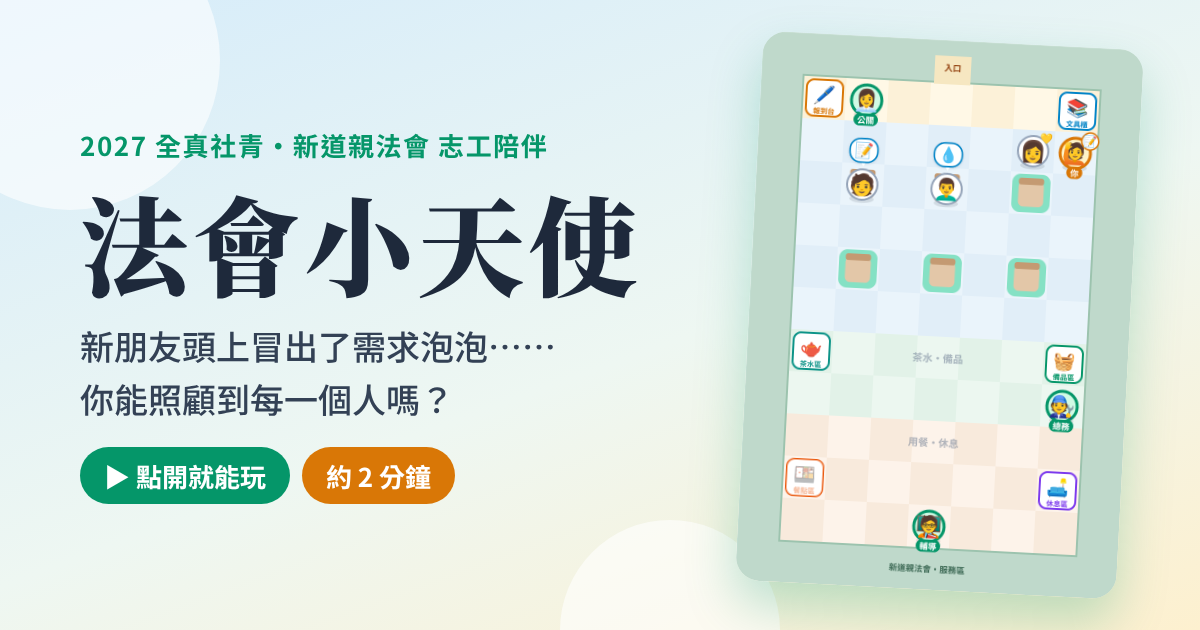
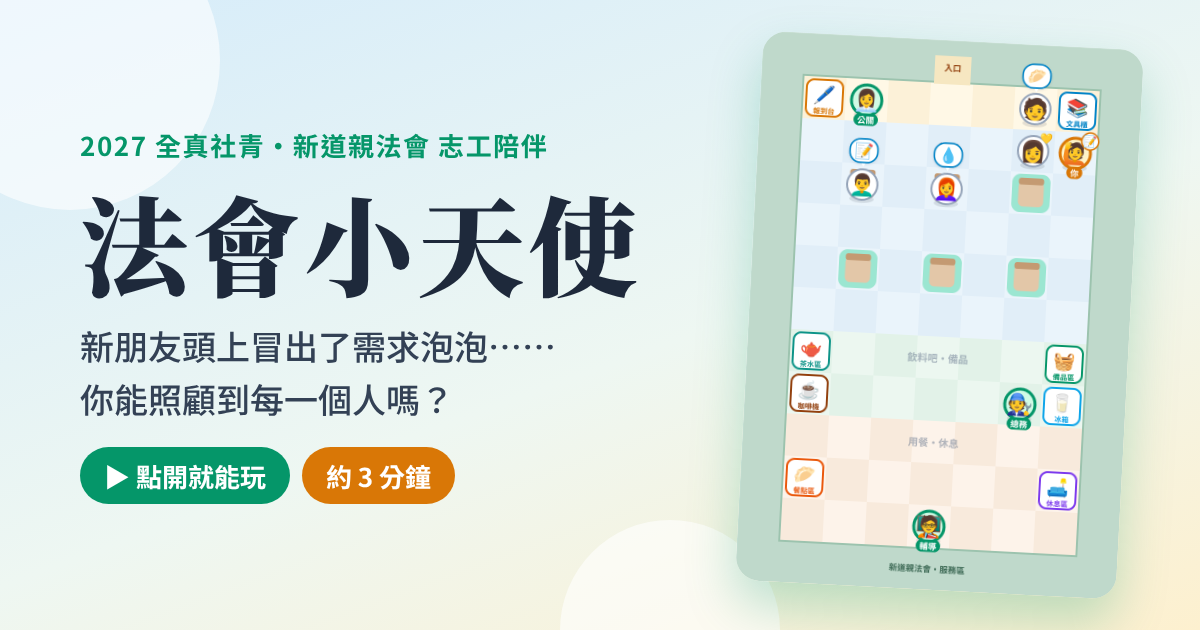
法會小天使：飲料吧（美式、鮮奶、拿鐵）、咖啡糖、早餐問候與水煎包
- 新增咖啡機與冰箱：紙杯＋咖啡機＝美式，美式＋鮮奶＝拿鐵（順序可對調）
- 想睡的朋友可給咖啡糖或美式，兩種解法都算數
- 剛到的朋友要先打招呼，問出還沒吃早餐，再拿兩顆水煎包
- 第三波改由早上認識的朋友提出新需求
- 溫暖值改為精簡計數，避免標題列擠壓

Claude-Session: https://claude.ai/code/session_01VJcZ3wUCqLHMZ5wd7frCC5

diff --git a/game/fahui-angel.html b/game/fahui-angel.html
@@ -7,7 +7,7 @@
 <meta property="og:type" content="website">
 <meta property="og:site_name" content="2027 全真社青 Life Design 探索地圖">
 <meta property="og:title" content="法會小天使｜一起當新朋友身邊的那雙手">
-<meta property="og:description" content="新朋友頭上冒出了需求泡泡……你能照顧到每一個人嗎？手機、電腦點開就能玩，約 2 分鐘。">
+<meta property="og:description" content="新朋友頭上冒出了需求泡泡……你能照顧到每一個人嗎？手機、電腦點開就能玩，約 3 分鐘。">
 <meta property="og:url" content="https://steven4dev.github.io/yiguandao-2027-course/game/fahui-angel.html">
 <meta property="og:image" content="https://steven4dev.github.io/yiguandao-2027-course/game/og-fahui-angel.png">
 <meta property="og:image:width" content="1200">
@@ -72,9 +72,10 @@
   .stats { text-align: right; display: grid; gap: 4px; flex: none; white-space: nowrap; }
   #wave { font-size: .8rem; font-weight: 700; color: var(--blue); }
   .warm { display: flex; align-items: center; gap: 6px; justify-content: flex-end; font-size: .72rem; color: var(--muted); font-weight: 700; }
-  #hearts { display: flex; gap: 1px; font-size: .82rem; line-height: 1; }
-  #hearts span { color: #E2E8F0; transition: color .3s, transform .3s; }
-  #hearts span.on { color: var(--pink); transform: scale(1.15); }
+  #hearts { display: inline-flex; align-items: center; gap: 4px; font-size: .95rem; font-weight: 900; color: var(--pink); font-variant-numeric: tabular-nums; line-height: 1; }
+  #hearts small { font-size: .72rem; color: var(--muted); font-weight: 700; }
+  #hearts.bump { animation: bump .45s ease-out; }
+  @keyframes bump { 40% { transform: scale(1.3); } }
 
   #stage { position: relative; flex: 1; min-height: 0; display: grid; place-items: center; }
   canvas { display: block; border-radius: 14px; box-shadow: 0 10px 30px rgba(5,150,105,.12), 0 0 0 1px var(--line); touch-action: none; cursor: pointer; max-width: 100%; }
@@ -225,7 +226,8 @@
     <p>🧺 備品區：要拿哪一樣？</p>
     <div class="row">
       <button class="btn" type="button" data-item="coat">🧥 薄外套</button>
-      <button class="btn" type="button" data-item="cup">☕ 空杯子</button>
+      <button class="btn" type="button" data-item="cup">🥤 空紙杯</button>
+      <button class="btn" type="button" data-item="candy">🍬 咖啡糖</button>
       <button class="btn ghost" type="button" data-item="">先不用</button>
     </div>
   </div>
@@ -239,6 +241,8 @@
         <li><span>👆</span><span>點地板走路；點人或櫃子，會自己走過去互動。電腦也可以用方向鍵。</span></li>
         <li><span>💬</span><span>泡泡就是需求：拿對的物資送過去，或待在身邊陪他一下。</span></li>
         <li><span>✋</span><span>手上一次只能拿一樣；直接去拿別的，舊的會自動放回去。</span></li>
+        <li><span>👋</span><span>剛到的朋友先打聲招呼，關心一下吃過早餐沒。</span></li>
+        <li><span>☕</span><span>飲料吧：紙杯＋咖啡機＝美式，美式＋鮮奶＝拿鐵。</span></li>
         <li><span>🧑💼</span><span>卡關了？穿綠背心的公關、總務、輔導組學長姊都會幫你。</span></li>
         <li><span>🎵</span><span>有背景音樂，右下角 🔊 可以開關（電腦按 M）。</span></li>
       </ul>
@@ -286,7 +290,7 @@
   const EMOJI = '"Apple Color Emoji","Segoe UI Emoji","Noto Color Emoji",sans-serif';
   const SANS = '"Noto Sans TC","PingFang TC","Microsoft JhengHei",sans-serif';
 
-  // R 報到台  S 文具櫃  T 茶水區  B 備品區  F 餐點區  L 休息區  c 座位  E 入口
+  // R 報到台  S 文具櫃  T 茶水區  K 咖啡機  M 冰箱  B 備品區  F 餐點區  L 休息區  c 座位  E 入口
   const MAP = [
     '#########',
     '#R..E..S#',
@@ -296,7 +300,7 @@
     '#.c.c.c.#',
     '#.......#',
     '#T.....B#',
-    '#.......#',
+    '#K.....M#',
     '#.......#',
     '#F.....L#',
     '#.......#',
@@ -309,20 +313,28 @@
     R: { name: '報到台', icon: '🖊', color: '#D97706' },
     S: { name: '文具櫃', icon: '📚', color: '#0284C7' },
     T: { name: '茶水區', icon: '🫖', color: '#0D9488' },
+    K: { name: '咖啡機', icon: '☕', color: '#92400E' },
+    M: { name: '冰箱', icon: '🥛', color: '#0EA5E9' },
     B: { name: '備品區', icon: '🧺', color: '#059669' },
     F: { name: '餐點區', icon: '🍱', color: '#EA580C' },
     L: { name: '休息區', icon: '🛋', color: '#7C3AED' },
   };
   const ITEMS = {
     note: { e: '📝', n: '筆記本' }, water: { e: '💧', n: '溫開水' }, coat: { e: '🧥', n: '薄外套' },
-    cup: { e: '☕', n: '空杯子' }, tea: { e: '🍵', n: '熱茶' }, bento: { e: '🍱', n: '素便當' }, key: { e: '🔑', n: '鑰匙' },
+    cup: { e: '🥤', n: '空紙杯' }, tea: { e: '🍵', n: '熱茶' }, bento: { e: '🍱', n: '素便當' }, key: { e: '🔑', n: '鑰匙' },
+    americano: { e: '☕', n: '美式咖啡' }, milk: { e: '🥛', n: '鮮奶' }, latte: { e: '☕🥛', n: '拿鐵' },
+    candy: { e: '🍬', n: '咖啡糖' }, bao: { e: '🥟', n: '水煎包' },
   };
   const NEEDS = {
     guide:   { e: '🧭', ask: '請問…我的座位在哪裡？', hint: '先走到他身邊讓他跟著你，再點一張發亮的空椅子。' },
     note:    { e: '📝', item: 'note', ask: '我想抄重點，有筆記本嗎？', hint: '筆記本在右上角的文具櫃。' },
     water:   { e: '💧', item: 'water', ask: '有點口渴，可以給我一杯水嗎？', hint: '左邊的茶水區有溫開水。' },
     coat:    { e: '🧥', item: 'coat', ask: '冷氣好強，有點冷…', hint: '薄外套在右邊備品區；櫃子鎖著的話，找總務組拿鑰匙。' },
-    tea:     { e: '🍵', item: 'tea', ask: '想喝杯熱茶暖暖身子。', hint: '先到備品區拿空杯子，再到茶水區裝熱茶。' },
+    tea:     { e: '🍵', item: 'tea', ask: '想喝杯熱茶暖暖身子。', hint: '先到備品區拿空紙杯，再到茶水區裝熱茶。' },
+    latte:   { e: '☕🥛', item: 'latte', ask: '好想喝一杯熱拿鐵～', hint: '拿鐵＝美式＋鮮奶：備品區拿紙杯，咖啡機裝美式，再到冰箱加鮮奶（順序反過來也可以）。' },
+    sleepy:  { e: '😪', items: ['candy', 'americano'], ask: '昨晚加班到好晚…好想睡…', hint: '幫他提神：備品區有咖啡糖，或是泡一杯美式咖啡給他。' },
+    greet:   { e: '👋', ask: '（剛到會場，有點不知所措…）', hint: '剛到的朋友，先走過去打聲招呼、關心一下。' },
+    bao:     { e: '🥟', item: 'bao', qty: 2, ask: '還沒吃早餐，肚子有點餓…', hint: '左下角餐點區有水煎包，拿兩顆給他（點兩次）。' },
     comfort: { e: '😟', ask: '第一次來，有點緊張…', hint: '走到休息區那位朋友身邊，靜靜陪他一下就好。' },
     bento:   { e: '🍱', item: 'bento', ask: '午餐在哪裡拿呢？', hint: '便當在左下角的餐點區。' },
   };
@@ -330,23 +342,25 @@
     guide: '有你帶路，我就不慌了。', note: '我會把今天的感動都記下來！', water: '這杯水好暖，謝謝你注意到我。',
     coat: '不冷了，連心都暖了。', tea: '這杯熱茶，我會記很久。', comfort: '有你陪著，我不緊張了。',
     bento: '吃飽了，覺得被好好照顧。', hidden: '謝謝你走過來，我以為沒人會發現我。',
+    latte: '這杯拿鐵剛剛好，你好會調！', bao: '熱騰騰的水煎包，好幸福！',
+    candy: '咖啡糖好有效，醒了醒了！', americano: '一杯美式，精神都回來了！',
   };
   const GAME_URL = 'https://steven4dev.github.io/yiguandao-2027-course/game/fahui-angel.html';
   const SHORT_URL = 'steven4dev.github.io/yiguandao-2027-course';
   const FACES = ['👩', '🧑', '👨🦱', '👩🦰', '🧔', '👱♀', '👨', '🧑🦱'];
   const WAVES = [
-    { name: '報到時間', intro: '新朋友陸續報到了！看看誰頭上冒出泡泡。',
-      npcs: [{ need: 'guide', at: [4, 1] }, { need: 'note', seat: true }, { need: 'water', seat: true }] },
-    { name: '課間休息', intro: '下課了，冷氣有點強。備品區上鎖了，記得找總務組。', lock: true,
-      npcs: [{ need: 'coat', seat: true }, { need: 'tea', seat: true }, { need: 'comfort', at: [6, 10] }] },
-    { name: '用餐時間', intro: '開飯囉！也看看角落，有人可能不好意思開口。',
-      npcs: [{ need: 'bento', seat: true }, { need: 'bento', at: [7, 11], hidden: true,
-               ask: '（小聲）我…還沒拿到便當，不好意思開口…' }] },
+    { name: '報到時間', intro: '新朋友陸續報到了！剛到的朋友記得先打聲招呼。',
+      npcs: [{ need: 'guide', at: [4, 1] }, { need: 'greet', at: [6, 1] }, { need: 'note', seat: true }, { need: 'water', seat: true }] },
+    { name: '課間休息', intro: '下課了！飲料吧可以泡咖啡、調拿鐵；備品區上鎖了，記得找總務組。', lock: true,
+      npcs: [{ need: 'coat', seat: true }, { need: 'latte', seat: true }, { need: 'sleepy', seat: true }, { need: 'comfort', at: [6, 10] }] },
+    { name: '用餐時間', intro: '開飯囉！早上認識的朋友又有新需要了，也看看角落。',
+      npcs: [{ need: 'bento', renew: true, ask: '肚子餓了，午餐在哪裡拿呢？' }, { need: 'tea', renew: true, ask: '飯後想喝杯熱茶。' },
+             { need: 'bento', at: [7, 11], hidden: true, ask: '（小聲）我…還沒拿到便當，不好意思開口…' }] },
   ];
   const TOTAL = WAVES.reduce((s, w) => s + w.npcs.length, 0);
   const STAFF = [
     { id: 'pr',   label: '公關', name: '公關禮節組', face: '👩💼', x: 2, y: 1 },
-    { id: 'gen',  label: '總務', name: '總務組',     face: '🧑🔧', x: 7, y: 8 },
+    { id: 'gen',  label: '總務', name: '總務組',     face: '🧑🔧', x: 6, y: 8 },
     { id: 'care', label: '輔導', name: '輔導組',     face: '🧑🏫', x: 4, y: 11 },
   ];
 
@@ -473,7 +487,7 @@
     S = { wave: -1, npcs: [], hand: null, locked: false, hearts: 0, player: ent(4, 7), follower: null,
           path: [], pending: null, particles: [], ripple: null, time: 0, waveT: 0, running: false,
           nextWaveAt: null, hi: null, faceIdx: 0, hiddenHinted: false, finished: false,
-          steps: 0, hints: 0, wrong: 0, items: 0, hiddenEarly: false, careHint: false, thanks: [] };
+          qty: 0, steps: 0, hints: 0, wrong: 0, items: 0, hiddenEarly: false, careHint: false, thanks: [] };
     renderHearts(); renderHand();
   }
 
@@ -534,12 +548,14 @@
   }
   const setHint = t => ($('#hint').textContent = t);
   function renderHearts() {
-    $('#hearts').innerHTML = Array.from({ length: TOTAL }, (_, i) => `<span class="${i < (S ? S.hearts : 0) ? 'on' : ''}">♥</span>`).join('');
+    const h = $('#hearts'), n = S ? S.hearts : 0;
+    h.innerHTML = `❤ <span class="on">${n}</span><small>／${TOTAL}</small>`;
+    if (n && !RM) { h.classList.remove('bump'); void h.offsetWidth; h.classList.add('bump'); }
   }
   function renderHand() {
     const it = S && S.hand ? ITEMS[S.hand] : null;
     $('#handEm').textContent = it ? it.e : '✋';
-    $('#handName').textContent = it ? it.n : '空空的';
+    $('#handName').textContent = it ? it.n + (S.hand === 'bao' ? ` ×${S.qty}` : '') : '空空的';
   }
   function banner(sub, title) {
     const b = $('#banner');
@@ -562,9 +578,15 @@
     S.wave = i; S.waveT = 0; S.nextWaveAt = null; S.hiddenHinted = false;
     const w = WAVES[i];
     if (w.lock) S.locked = true;
+    const renewable = S.npcs.filter(n => n.state === 'done' && !n.hidden && tileAt(n.x, n.y) === 'c');
     for (const d of w.npcs) {
+      if (d.renew && renewable.length) {
+        const n = renewable.splice(Math.floor(Math.random() * renewable.length), 1)[0];
+        Object.assign(n, { need: d.need, state: 'wait', wave: i, ask: d.ask || NEEDS[d.need].ask, born: S.time, prog: 0, renewed: true });
+        continue;
+      }
       let pos;
-      if (d.seat) { const fs = freeSeats(); pos = fs[Math.floor(Math.random() * fs.length)]; }
+      if (d.seat || d.renew) { const fs = freeSeats(); pos = fs[Math.floor(Math.random() * fs.length)]; }
       else pos = freeNear(...d.at);
       const n = Object.assign(ent(pos[0], pos[1]), {
         need: d.need, face: FACES[S.faceIdx++ % FACES.length], state: 'wait', wave: i,
@@ -578,13 +600,13 @@
     setHint(w.intro);
   }
   const waveNpcs = () => S.npcs.filter(n => n.wave === S.wave);
-  function complete(n) {
+  function complete(n, used) {
     n.state = 'done'; n.doneAt = S.time;
     S.hearts++; renderHearts(); sfx('yay');
     for (let k = 0; k < 5; k++) S.particles.push({ x: n.x + .5 + (Math.random() - .5) * .6, y: n.y + .2, vy: -(.8 + Math.random() * .8), life: 1 });
-    const line = n.hidden ? THANKS.hidden : THANKS[n.need];
+    const line = n.hidden ? THANKS.hidden : (n.need === 'sleepy' ? THANKS[used] : THANKS[n.need]);
     S.thanks.push({ face: n.face, line, hidden: n.hidden });
-    if (NEEDS[n.need].item) S.items++;
+    if (used) S.items++;
     say(n, line);
     if (waveNpcs().every(m => m.state === 'done')) S.nextWaveAt = S.time + 1.3;
     else {
@@ -597,9 +619,9 @@
   // 稱號看的是「怎麼玩」，不是快慢：每一種玩法都值得被肯定
   function angelTitle(sec) {
     if (S.hiddenEarly) return { e: '🔍', name: '細心小天使', desc: '你看見了那個沒說出口的需要。' };
-    if (sec <= 60) return { e: '🍃', name: '疾風小天使', desc: '需要出現的那一刻，你已經在路上。' };
+    if (sec <= 100) return { e: '🍃', name: '疾風小天使', desc: '需要出現的那一刻，你已經在路上。' };
     if (S.hints >= 3) return { e: '🤝', name: '同行小天使', desc: '懂得請教夥伴，一群人走得更遠。' };
-    if (sec >= 150) return { e: '🌿', name: '從容小天使', desc: '不疾不徐，把每份心意都送得穩穩的。' };
+    if (sec >= 240) return { e: '🌿', name: '從容小天使', desc: '不疾不徐，把每份心意都送得穩穩的。' };
     return { e: '☀', name: '溫暖小天使', desc: '你的每一步，都讓會場更暖一點。' };
   }
   function timeText(sec) {
@@ -614,8 +636,8 @@
     const sec = Math.max(1, Math.round(S.time));
     const title = angelTitle(sec);
     const pick = [...S.thanks].sort((a, b) => (b.hidden - a.hidden) || (Math.random() - .5)).slice(0, 2);
-    const r = { sec, title, pick, hearts: S.hearts, steps: S.steps, items: S.items };
-    shareText = `我在「法會小天使」成為了${title.e}${title.name}！用 ${timeText(sec)}，讓 ${S.hearts} 位新朋友的第一次不再陌生。你也來當一天新朋友身邊的那雙手吧 👉 ${GAME_URL}`;
+    const r = { sec, title, pick, hearts: S.hearts, people: S.npcs.length, steps: S.steps, items: S.items };
+    shareText = `我在「法會小天使」成為了${title.e}${title.name}！用 ${timeText(sec)}，讓 ${S.npcs.length} 位新朋友的第一次不再陌生。你也來當一天新朋友身邊的那雙手吧 👉 ${GAME_URL}`;
     $('#endHead').textContent = `你是今天的${title.name}`;
     $('#fbShare').href = 'https://www.facebook.com/sharer/sharer.php?u=' + encodeURIComponent(GAME_URL);
     $('#lineShare').href = 'https://social-plugins.line.me/lineit/share?url=' + encodeURIComponent(GAME_URL) + '&text=' + encodeURIComponent(shareText);
@@ -629,7 +651,7 @@
     renderCard(r).then(cv2 => {
       resultUrl = cv2.toDataURL('image/png');
       $('#resultImg').src = resultUrl;
-      $('#resultImg').alt = `法會小天使卡：${title.name}，${timeText(sec)}照顧了 ${S.hearts} 位新朋友`;
+      $('#resultImg').alt = `法會小天使卡：${title.name}，${timeText(sec)}照顧了 ${S.npcs.length} 位新朋友`;
       cv2.toBlob(b => { if (b) shareFile = new File([b], 'fahui-angel.png', { type: 'image/png' }); }, 'image/png');
     });
     $('#shareImg').focus({ preventScroll: true });
@@ -702,9 +724,9 @@
     g.save(); g.shadowColor = 'rgba(5,150,105,.16)'; g.shadowBlur = 30; g.shadowOffsetY = 10;
     g.fillStyle = '#fff'; round(90, 640, 900, 300, 36); g.fill(); g.restore();
     font(900, 40, SERIF); center(`你花了 ${timeText(r.sec)}`, 700, '#059669');
-    font(500, 32); center(`讓 ${r.hearts} 位新朋友的第一次不再陌生`, 752, '#1E293B');
+    font(500, 32); center(`讓 ${r.people} 位新朋友的第一次不再陌生`, 752, '#1E293B');
     g.strokeStyle = '#E2EEE7'; g.lineWidth = 2; g.beginPath(); g.moveTo(150, 795); g.lineTo(930, 795); g.stroke();
-    const cols = [['❤', r.hearts, '位被照顧'], ['👣', r.steps, '步的陪伴'], ['🎁', r.items, '份物資']];
+    const cols = [['❤', r.hearts, '份心意'], ['👣', r.steps, '步的陪伴'], ['🎁', r.items, '份物資']];
     cols.forEach(([ch, n, lab], i) => {
       const x = 240 + i * 300;
       g.font = `900 54px ${SANS}`;
@@ -775,12 +797,19 @@
 
   // ---------- interactions ----------
   function give(item) {
+    if (item === 'bao' && S.hand === 'bao') {
+      if (S.qty >= 2) return say(null, '兩顆水煎包剛剛好，快送過去吧！');
+      S.qty = 2; renderHand(); sfx('pick');
+      return say(null, '再拿一顆！🥟 水煎包 ×2');
+    }
     if (S.hand === item) return say(null, `手上已經有${ITEMS[item].n}了。`);
     const old = S.hand;
-    S.hand = item; renderHand(); sfx('pick');
+    S.hand = item; S.qty = 1; renderHand(); sfx('pick');
     if (old) say(null, `${ITEMS[old].e}${ITEMS[old].n}${old === 'key' ? '先還給總務組' : '放回去'}，換成 ${ITEMS[item].e} ${ITEMS[item].n}`);
+    else if (item === 'bao') say(null, '拿到 🥟 水煎包 ×1（再點一次可以多拿一顆）');
     else say(null, `拿到 ${ITEMS[item].e} ${ITEMS[item].n}`);
   }
+  function brew(to, msg) { S.hand = to; S.qty = 1; renderHand(); sfx('unlock'); say(null, msg); }
   function openChoice() { $('#choice').hidden = false; $('#choice .btn').focus(); }
   function closeChoice() { $('#choice').hidden = true; }
 
@@ -790,7 +819,7 @@
       case 'S': return give('note');
       case 'T':
         if (S.hand === 'tea') return say(null, '熱茶已經裝好了，快送過去吧！');
-        if (S.hand === 'cup') { S.hand = 'tea'; renderHand(); sfx('pick'); return say(null, '🍵 熱茶裝好了，小心燙！'); }
+        if (S.hand === 'cup') return brew('tea', '🍵 熱茶裝好了，小心燙！');
         return give('water');
       case 'B':
         if (S.locked) {
@@ -799,8 +828,18 @@
         }
         return openChoice();
       case 'F':
-        if (S.wave < 2) return say(null, '午餐時間還沒到喔～');
-        return give('bento');
+        return give(S.wave < 2 ? 'bao' : 'bento');
+      case 'K':
+        if (S.hand === 'cup') return brew('americano', '☕ 美式咖啡好了，香！');
+        if (S.hand === 'milk') return brew('latte', '☕🥛 鮮奶加美式，拿鐵完成！');
+        if (S.hand === 'americano') return say(null, '已經是美式了。想做拿鐵，到冰箱加鮮奶。');
+        if (S.hand === 'latte') return say(null, '拿鐵已經好了，快送過去吧！');
+        sfx('no'); return say(null, '咖啡機：先到備品區拿一個空紙杯來裝。');
+      case 'M':
+        if (S.hand === 'americano') return brew('latte', '☕🥛 美式加鮮奶，拿鐵完成！');
+        if (S.hand === 'cup') return brew('milk', '🥛 裝了一杯鮮奶。再去咖啡機加美式，就是拿鐵。');
+        if (S.hand === 'milk' || S.hand === 'latte') return say(null, '已經加過鮮奶了。');
+        sfx('no'); return say(null, '冰箱裡有鮮奶：拿紙杯或美式咖啡過來裝。');
       case 'L': return say(null, '休息區：累了可以來這裡坐一下。');
     }
   }
@@ -841,8 +880,20 @@
       return setHint('點一張發亮的空椅子，帶他入座。');
     }
     if (n.need === 'comfort') { say(n, n.ask); return setHint('站在他身邊別走開，陪他一下下。'); }
-    if (S.hand === nd.item) { S.hand = null; renderHand(); return complete(n); }
-    if (S.hand) { sfx('no'); S.wrong++; return say(n, `這是${ITEMS[S.hand].n}…我需要的是${ITEMS[nd.item].e}${ITEMS[nd.item].n}。`); }
+    if (n.need === 'greet') {
+      say(null, '你：早安，歡迎你來！吃過早餐了嗎？');
+      n.need = 'bao'; n.ask = '還沒耶…早上趕著出門。'; n.born = S.time; n.talking = true;
+      setTimeout(() => { if (S.running) { n.talking = false; say(n, n.ask); setHint(NEEDS.bao.hint); } }, 1500);
+      return;
+    }
+    const ok = nd.items || [nd.item];
+    if (ok.includes(S.hand)) {
+      if (nd.qty && S.qty < nd.qty) return say(n, '謝謝！不過一顆好像不太夠…可以再一顆嗎？');
+      const used = S.hand;
+      S.hand = null; S.qty = 0; renderHand(); return complete(n, used);
+    }
+    const want = ok.map(k => ITEMS[k].e + ITEMS[k].n).join('或');
+    if (S.hand) { sfx('no'); S.wrong++; return say(n, `這是${ITEMS[S.hand].n}…我需要的是${want}。`); }
     say(n, n.ask); setHint(nd.hint);
   }
   function seatFollower(x, y) {
@@ -984,7 +1035,7 @@
   const ZONES = [
     { y0: 1, y1: 1, a: '#FFF8E6', b: '#FCF1D8', name: '' },
     { y0: 2, y1: 6, a: '#EAF4FB', b: '#E1EEF8', name: '教室' },
-    { y0: 7, y1: 8, a: '#ECF7F0', b: '#E2F2E8', name: '茶水・備品' },
+    { y0: 7, y1: 8, a: '#ECF7F0', b: '#E2F2E8', name: '飲料吧・備品' },
     { y0: 9, y1: 11, a: '#FDF3EA', b: '#F8EADC', name: '用餐・休息' },
   ];
   function drawPerson(cx, cy, face, opts) {
@@ -999,7 +1050,8 @@
     if (opts.tag) label(opts.tag, cx, cy + r + T * .1, Math.max(8, T * .2), '#fff', opts.tagBg);
   }
   function drawBubble(cx, cy, ch, age, warn) {
-    const T = tile, w = T * .66, h = T * .56;
+    const two = Array.from(ch).length > 1;
+    const T = tile, w = T * (two ? .9 : .66), h = T * .56;
     const bob = RM ? 0 : Math.sin(age * 3) * T * .03;
     const by = cy - T * .78 + bob;
     ctx.save();
@@ -1011,7 +1063,7 @@
     ctx.beginPath(); ctx.moveTo(-T * .07, h / 2 - 1); ctx.lineTo(0, h / 2 + T * .1); ctx.lineTo(T * .07, h / 2 - 1); ctx.closePath(); ctx.fill();
     ctx.lineWidth = 1.6; ctx.strokeStyle = warn ? '#D97706' : '#0284C7';
     rr(-w / 2, -h / 2, w, h, h * .45); ctx.stroke();
-    emoji(ch, 0, 0, T * .36);
+    emoji(ch, 0, 0, T * (two ? .3 : .36));
     ctx.restore();
   }
 
@@ -1051,10 +1103,9 @@
       if (st) {
         ctx.fillStyle = '#fff'; rr(px + 3, py + 3, T - 6, T - 6, T * .18); ctx.fill();
         ctx.lineWidth = 2; ctx.strokeStyle = st.color; ctx.stroke();
-        emoji(st.icon, px + T / 2, py + T * .42, T * .42);
+        emoji(c === 'F' ? (S.wave < 2 ? '🥟' : '🍱') : st.icon, px + T / 2, py + T * .42, T * .42);
         label(st.name, px + T / 2, py + T * .8, Math.max(7, T * .17), st.color);
         if (c === 'B' && S.locked) emoji('🔒', px + T * .8, py + T * .2, T * .26);
-        if (c === 'F' && S.wave < 2) { ctx.fillStyle = 'rgba(255,255,255,.55)'; rr(px + 3, py + 3, T - 6, T - 6, T * .18); ctx.fill(); }
       }
     }
 
@@ -1088,7 +1139,7 @@
           ctx.lineCap = 'butt';
         }
         if (done && S.time - n.doneAt < 2.5) emoji('✨', cx + T * .32, cy - T * .3, T * .28);
-        if (n.state === 'wait' && n.revealed) drawBubble(cx, cy, NEEDS[n.need].e, S.time - n.born, S.time - n.born > 18);
+        if (n.state === 'wait' && n.revealed && !n.talking) drawBubble(cx, cy, NEEDS[n.need].e, S.time - n.born, S.time - n.born > 18);
         if (n.state === 'following') emoji('💛', cx + T * .3, cy - T * .32, T * .24);
       } });
     }
@@ -1099,7 +1150,9 @@
       if (S.hand) {
         ctx.fillStyle = '#fff'; ctx.beginPath(); ctx.arc(cx + T * .34, cy - T * .3, T * .2, 0, Math.PI * 2); ctx.fill();
         ctx.strokeStyle = '#D97706'; ctx.lineWidth = 1.5; ctx.stroke();
-        emoji(ITEMS[S.hand].e, cx + T * .34, cy - T * .3, T * .26);
+        const he = ITEMS[S.hand].e;
+        emoji(he, cx + T * .34, cy - T * .3, T * (Array.from(he).length > 1 ? .17 : .26));
+        if (S.hand === 'bao' && S.qty > 1) label('×2', cx + T * .58, cy - T * .12, Math.max(8, T * .2), '#fff', '#EA580C');
       }
     } });
     people.sort((a, b) => a.y - b.y).forEach(p => p.draw());
@@ -1117,6 +1170,7 @@
   }
   reset();
   resize();
+  if (location.hash === '#debug') window.__idle = () => S.player.t >= 1 && !S.path.length && !S.pending;
   requestAnimationFrame(loop);
 })();
 </script>
